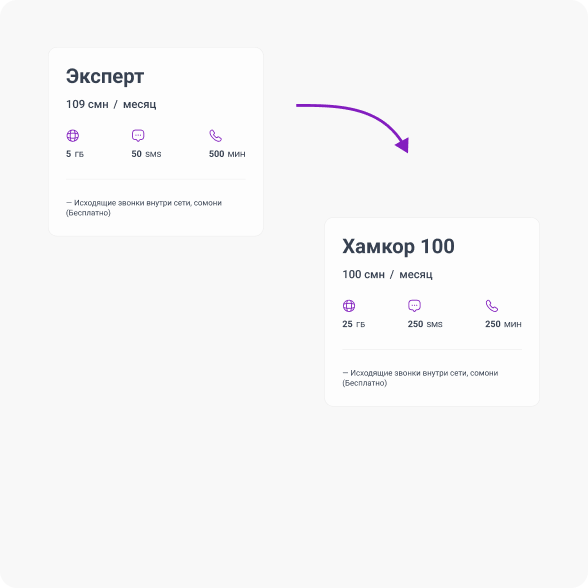
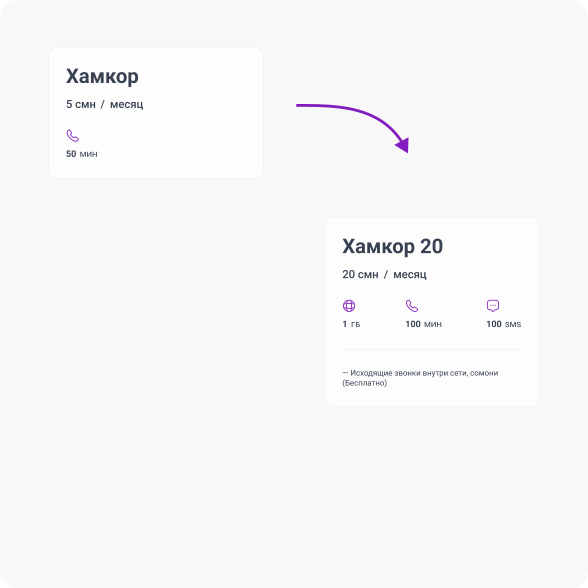
add new texts and changed image in posts

diff --git a/src/lib/requests/resources/Posts/lib/data/StaticPostsData.ts b/src/lib/requests/resources/Posts/lib/data/StaticPostsData.ts
@@ -525,7 +525,7 @@ export const staticPosts:IPost[] = [
           Уважаемые абоненты!
         </p>
         <p style="margin-bottom: 15px;">
-          Мы постоянно работаем над улучшением качества наших услуг, чтобы предоставлять вам только лучшие возможности для связи. В рамках этих усилий, ваш тарифный план будет изменен на «Хамкор 100», который не только расширит ваш доступ к цифровым сервисам, но и обеспечит более комфортное использование мобильной связи.
+          Мы постоянно работаем над улучшением качества наших услуг, чтобы предоставлять вам только лучшие возможности для связи. В рамках этих усилий, ваш тарифный план будет изменен на «Хамкор 20», который не только расширит ваш доступ к цифровым сервисам, но и обеспечит более комфортное использование мобильной связи.
         </p>
         <p style="margin-bottom: 15px;">
           1. Пакет интернет - Увеличен интернет-пакет, чтобы вы могли без забот общаться с друзьями, близкими и самое главное, всегда быть в сети.
@@ -690,38 +690,45 @@ export const staticPosts:IPost[] = [
           Уважаемые абоненты!
         </p>
         <p style="margin-bottom: 15px;">
-          Мы рады объявить о предстоящих улучшениях в тарифном плане «Аввалин* 2016», которые сделают его еще более выгодным и удобным для вас. За небольшое увеличение абонентской платы вы получите больше преимуществ. Изменения вступят с 15 июля текущего года при начислении следующей абоненткой платы.
+          Мы постоянно работаем над улучшением качества наших услуг, чтобы предоставлять вам только лучшие возможности для связи. В рамках этих усилий, ваш тарифный план будет изменен на «Хамкор 20», который не только расширит ваш доступ к цифровым сервисам, но и обеспечит более комфортное использование мобильной связи.
         </p>
         <p style="margin-bottom: 15px;">
-          Также будут изменена стоимость на интернет трафик и внутриреспубликанские SMS после окончания трафика:
+          1. Пакет интернет - Увеличен интернет-пакет, чтобы вы могли без забот общаться с друзьями, близкими и самое главное, всегда быть в сети.
         </p>
-        <ul style="margin-bottom: 15px;">
-          <li>— Стоимость 1 МБ: с 0,30 сомони на 0,10 сомони;</li>
-          <li>— Стоимость 1 SMS: с 0,067 сомони на 0,10 сомони.</li>
-        </ul>
+        <p style="margin-bottom: 15px;">
+          2. Звонки внутри сети - наслаждайтесь неограниченными звонками внутри сети. При звонке внутри сети, минуты с основного пакета не расходуются.
+        </p>
+        <p style="margin-bottom: 15px;">
+          Переход на новый тарифный план будет осуществлён автоматически для всех наших абонентов с 1 августа 2024 года, при начислении следующей абонентской платы.
+        </p>
+        <p style="margin-bottom: 15px;">
+          Мы понимаем, что изменения могут вызывать вопросы, поэтому наша <a class="text-primary" href="https://t.me/Tcellservicebot">служба поддержки</a> всегда готова помочь вам и ответить на любые ваши вопросы.
+        </p>
         <p class="text-primary font-bold" style="margin-bottom: 15px;">
           Мы благодарим вас за то, что вы остаётесь с нами, и надеемся, что новые условия тарифного плана принесут вам максимум удовольствия и комфорта!
         </p>
       </div>
-       <div class="mt-5">
+      <div class="mt-5">
         <p style="margin-bottom: 15px;">
           Муштариёни муҳтарам!
         </p>
         <p style="margin-bottom: 15px;">
-          Мо бо камоли хушнудӣ дар бораи тағйироти дарпешистода ба тарофаи "Аввалин* 2016" иттилоъ медиҳем, ки ӯ барои Шумо боз ҳам муфидтар ва бароҳаттар мегардад. Бо каме тағйирот дар пардохти абонетӣ соҳиби имкониятҳои бештар мегардед. Тағйирот аз 15 июли соли ҷорӣ ҳангоми пардохти навбатии пардохти абонентӣ эътибор пайдо мекунанд.
+         Мо пайваста кӯшиш менамоем, ки сифати хизматрасониҳои худро беҳтар созем, то ба Шумо беҳтарин имкониятҳои муоширатро пешниҳод намоем. Дар доираи ин кӯшишҳо тарофаи нақшавии Шумо ба «Хамкор 20» иваз карда мешавад, ки на танҳо дастрасиатонро ба хизматрасониҳои рақамӣ тавсеа мебахшад, балки истифодаи бароҳати алоқаи мобилиро низ фароҳам меорад.
         </p>
         <p style="margin-bottom: 15px;">
-         Инчунин нархи трафики интернет ва SMS-и дохили ҷумҳурӣ пас аз анҷоми трафик низ тағйир меёбад:
+          1. Бастаи интернет - бастаи трафики интернет зиёд карда шуд, то ки имконияти муошират бо дӯстон ва наздиконатон бе мушкили муошират намоед, аз хама мухимаш дар алока бошед.  
         </p>
-        <ul style="margin-bottom: 15px;">
-          <li>— Нархи 1 МБ: аз 0,30 ба 0,10 сомонӣ;</li>
-          <li>— Нархи 1 SMS: аз 0,067 сомонӣ ба 0,10 сомонӣ.</li>
-        </ul>
+        <p style="margin-bottom: 15px;">
+          2. Зангҳо дохили ширкат – дар дохили ширкат метавоненд бемаҳдуд муошират намоед. Хангоми занг дар дохили ширкат, дақиқаҳо сарф карда намешаванд.
+        </p>
+        <p style="margin-bottom: 15px;">
+          Гузариш ба тарофаҳои нав ба таври худкор (автоматӣ) барои ҳамаи муштариёни мо аз 1-уми августи соли 2024, вақте ки пардохти абонентии навбатӣ ҳисоб карда мешавад, сурат мегирад.
+        </p>
         <p style="margin-bottom: 15px;">
           Мо мефаҳмем, ки тағйирот метавонад саволҳоро ба миён орад, аз ин рӯ <a class="text-primary" href="https://t.me/Tcellservicebot">хадамоти дастгирии мо</a> ҳамеша омода аст ба Шумо кӯмак расонад ва ба ҳама саволҳоятон посух диҳад.
         </p>
         <p class="text-primary font-bold" style="margin-bottom: 15px;">
-          Ташаккур ба Шумо, ки бо мо ҳастед! Итминон дорем, ки шартҳои нави тарофа бароятон мақбул меоянд!
+          Ба Шумо барои бо мо буданатон ташаккур мегӯем ва умедворем, ки шартҳои нави тарофаҳои нақшавӣ бароятон писанд омада, аз онҳо қаноатманд мешавед!
         </p>
       </div>
     `,
@@ -738,7 +745,7 @@ export const staticPosts:IPost[] = [
           Уважаемые абоненты!
         </p>
         <p style="margin-bottom: 15px;">
-          Мы постоянно работаем над улучшением качества наших услуг, чтобы предоставлять вам только лучшие возможности для связи. В рамках этих усилий, ваш тарифный план будет изменен на «Хамкор 100», который не только расширит ваш доступ к цифровым сервисам, но и обеспечит более комфортное использование мобильной связи.
+          Мы постоянно работаем над улучшением качества наших услуг, чтобы предоставлять вам только лучшие возможности для связи. В рамках этих усилий, ваш тарифный план будет изменен на «Хамкор 150», который не только расширит ваш доступ к цифровым сервисам, но и обеспечит более комфортное использование мобильной связи.
         </p>
         <p style="margin-bottom: 15px;">
           1. Пакет интернет - Увеличен интернет пакет, чтобы вы могли без забот общаться с друзьями, близкими и самое главное, всегда быть в сети.
@@ -1003,39 +1010,77 @@ export const staticPosts:IPost[] = [
     img: '/images/post_21.png'
   },
   {
-    id: 22,
-    title: 'Изменения в корпоративных тарифных планах на выгодных условиях',
-    excerpt: 'Мы постоянно работаем над улучшением качества наших услуг',
-    date: '16 июля. 2024 г.',
-    content: `
-      <div class="mt-5">
-        <p style="margin-bottom: 15px;">
-          Уважаемые абоненты!
-        </p>
-        <p style="margin-bottom: 15px;">
-          Мы постоянно работаем над улучшением качества наших услуг, чтобы предоставлять вам только выгодные условия и лучшие возможности для связи. В рамках этих усилий, нижеуказанные тарифные планы будут изменены на следующие:
-        </p>
-        <ul style="margin-bottom: 15px;">
-          <li>· «Хамкор», «Тичорат 3», «Тичорат 6», «Бизнесмен», «Сохибкори хурд» на «Хамкор 20». <a href="/news/posts/11" class="text-primary">Подробнее</a></li>
-          <li>· «Сохибкори миёна» на «Имтиёз 35». <a  href="/news/posts/21" class="text-primary">Подробнее</a></li>
-          <li>· «Тичорат 10» и «Специалист» на «Хамкор 50». <a href="/news/posts/14" class="text-primary">Подробнее</a></li>
-          <li>· «Ватандуст 40» и «Ватандуст 60» на «Имтиёз 66». <a href="/news/posts/19" class="text-primary">Подробнее</a></li>
-          <li>· «Эксперт» на «Хамкор 100». <a href="/news/posts/10" class="text-primary">Подробнее</a></li>
-          <li>· «Менеджер» на «Хамкор 150». <a href="/news/posts/17" class="text-primary">Подробнее</a></li>
-          <li>· «Bronze» и «Ватандуст 100» на «Имтиёз 106». Подробности: <span class="text-black font-bold">8080</span> </li>
-          <li>· «Ватандуст 100» и «Silver» на «Имтиёз 66». Подробности: <span class="text-black font-bold">8080</span></li>
-          <li>· «Ватандуст 150» и «Руководитель» на «Имтиёз 236». Подробности: <span class="text-black font-bold">8080</span></li>
-        </ul>
-        <p style="margin-bottom: 15px;">
-          Вышеуказанные изменения не только расширит ваш доступ к цифровым сервисам, но и обеспечит более выгодное использование мобильной связи, делая звонки еще более доступными и удобными.
-        </p>
-        <p style="margin-bottom: 15px;">
-          Переход на новые тарифные планы будет осуществлён автоматически с 1 августа 2024 года, при начислении следующей абонентской платы
-        </p>
-        <p class="text-primary font-bold" style="margin-bottom: 15px;">
-          Мы благодарим вас за то, что вы остаётесь с нами, и надеемся, что новые условия тарифного плана принесут вам максимум удовольствия и комфорта!
-        </p>
-      </div>
-    `,
-    img: ''
-  },]
+      id: 22,
+      title: 'Изменения в корпоративных тарифных планах на выгодных условиях',
+      excerpt: 'Мы постоянно работаем над улучшением качества наших услуг',
+      date: '16 июля. 2024 г.',
+      content: `
+        <div class="mt-5 border-b border-secondary-400">
+          <p style="margin-bottom: 15px;">
+            Уважаемые абоненты!
+          </p>
+          <ul style="margin-bottom: 15px;">
+            <li>•	«Хамкор» на «Хамкор 20». <a href="/news/posts/11" class="text-primary">Подробнее</a></li>
+            <li>•	«Тичорат 3» на «Хамкор 20». <a href="/news/posts/13" class="text-primary">Подробнее</a></li>
+            <li>•	«Тичорат 6» на «Хамкор 20». <a href="/news/posts/12" class="text-primary">Подробнее</a></li>
+            <li>•	«Бизнесмен» на «Хамкор 20». <a href="/news/posts/20" class="text-primary">Подробнее</a></li>
+            <li>• «Сохибкори миёна» на «Имтиёз 35». <a href="/news/posts/21" class="text-primary">Подробнее</a></li>
+            <li>•	«Тичорат 10» на «Хамкор 50». <a href="/news/posts/21" class="text-primary">Подробнее</a></li>
+            <li>•	«Специалист» на «Хамкор 50». <a href="/news/posts/15" class="text-primary">Подробнее</a></li>
+            <li>•	«Ватандуст 40» на «Имтиёз 66». <a href="/news/posts/19" class="text-primary">Подробнее</a></li>
+            <li>•	«Ватандуст 60» на «Имтиёз 66». <a href="/news/posts/18" class="text-primary">Подробнее</a></li>
+            <li>•	«Эксперт» на «Хамкор 100». <a href="/news/posts/10" class="text-primary">Подробнее</a></li>
+            <li>•	«Менеджер» на «Хамкор 150». <a href="/news/posts/17" class="text-primary">Подробнее</a></li>
+            <li>•	«Сохибкори хурд» на «Хамкор 20». Подробнее: <span class="text-black font-bold">8080</span></li>
+            <li>•	«Bronze» и «Ватандуст 100» на «Имтиёз 106». Подробности: <span class="text-black font-bold">8080</span></li>
+            <li>•	«Silver» и «Ватандуст 150» на «Имтиёз 166». Подробности: <span class="text-black font-bold">8080</span></li>
+            <li>•	«Руководитель» и «Gold» на «Имтиёз 236». Подробности: <span class="text-black font-bold"></span> 8080</li>
+          </ul>
+          <p style="margin-bottom: 15px;">
+            Вышеуказанные изменения не только расширит ваш доступ к цифровым сервисам, но и обеспечит более выгодное использование мобильной связи, делая звонки еще более доступными и удобными.
+          </p>
+          <p style="margin-bottom: 15px;">
+            Переход на новые тарифные планы будет осуществлён автоматически с 1 августа 2024 года, при начислении следующей абонентской платы.
+          </p>
+          <p class="text-primary font-bold" style="margin-bottom: 15px;">
+            Благодарим вас за то, что вы остаётесь с нами, и надеемся, что новый тарифный план принесет вам максимум комфорта!
+          </p>
+        </div>
+         <div class="mt-5">
+          <p style="margin-bottom: 15px;">
+            Муштариёни муҳтарам!
+          </p>
+          <p style="margin-bottom: 15px;">
+           Мо ҳамавакт кӯшиш менамоем, ки сифати хизматрасониҳои худро беҳтар созем, то ба Шумо беҳтарин имкониятҳои муоширатро пешниҳод намоем. Дар доираи ин кӯшишҳо, тарофахоии нақшавии дар поёнзикршуда ба тарофаҳои зерин иваз карда мешаванд:
+          </p>
+          <ul style="margin-bottom: 15px;">
+            <li>•	«Хамкор» ба «Хамкор 20» <a href="/news/posts/11" class="text-primary">Муфассал</a></li>
+            <li>•	«Тичорат 3» ба «Хамкор 20». <a href="/news/posts/13" class="text-primary">Муфассал</a></li>
+            <li>•	«Тичорат 6» ба «Хамкор 20». <a href="/news/posts/12" class="text-primary">Муфассал</a></li>
+            <li>•	«Бизнесмен» ба «Хамкор 20». <a href="/news/posts/20" class="text-primary">Муфассал</a></li>
+            <li>•	«Сохибкори миёба» ба «Имтиёз 35». <a href="/news/posts/21" class="text-primary">Муфассал</a></li>
+            <li>•	«Тичорат 10» ба «Хамкор 50». <a href="/news/posts/21" class="text-primary">Муфассал</a></li>
+            <li>•	«Специалист» ба «Хамкор 50». <a href="/news/posts/15" class="text-primary">Муфассал</a></li>
+            <li>•	«Ватандуст 40» ба «Имтиёз 66». <a href="/news/posts/19" class="text-primary">Муфассал</a></li>
+            <li>•	«Ватандуст 60» ба «Имтиёз 66». <a href="/news/posts/18" class="text-primary">Муфассал</a></li>
+            <li>•	«Эксперт» ба «Хамкор 100». <a href="/news/posts/10" class="text-primary">Муфассал</a></li>
+            <li>•	«Менеджер» ба «Хамкор 150». <a href="/news/posts/17" class="text-primary">Муфассал</a></li>
+            <li>•	«Сохибкори хурд» ба «Хамкор 20». Муфассал: <span class="text-black font-bold">8080</span></li>
+            <li>•	«Bronze» и «Ватандуст 100» ба «Имтиёз 106». Муфассал: <span class="text-black font-bold">8080</span></li>
+            <li>•	«Silver» и «Ватандуст 150» ба «Имтиёз 166». Муфассал: <span class="text-black font-bold">8080</span></li>
+            <li>•	«Руководитель» и «Gold» ба «Имтиёз 236». Муфассал: <span class="text-black font-bold"></span> 8080</li>
+          </ul>
+          <p style="margin-bottom: 15px;">
+            Тагйиротхои дар мазкур, на танҳо дастрасиатонро ба хизматрасониҳои рақамӣ тавсеа мебахшад, балки инчунин истифодаи бароҳат ва фоидаовари алоқаи мобилиро таъмин намуда, зангҳоро боз ҳам дастрас ва қуллай мегардонад.
+          </p>
+          <p style="margin-bottom: 15px;">
+            Гузариш ба тарофаҳои нав ба таври худкор (автоматӣ) аз 1 августи соли 2024, вақте ки пардохти абонентии навбатӣ ҳисоб карда мешавад, сурат мегирад.
+          </p>
+          <p class="text-primary font-bold" style="margin-bottom: 15px;">
+            Ба Шумо барои бо мо буданатон ташаккур мегӯем ва умедворем, ки шартҳои нави тарофаҳои нақшавӣ бароятон писанд омада, аз онҳо қаноатманд мегардед!
+          </p>
+        </div>
+      `,
+      img: ''
+    },
+  ]
